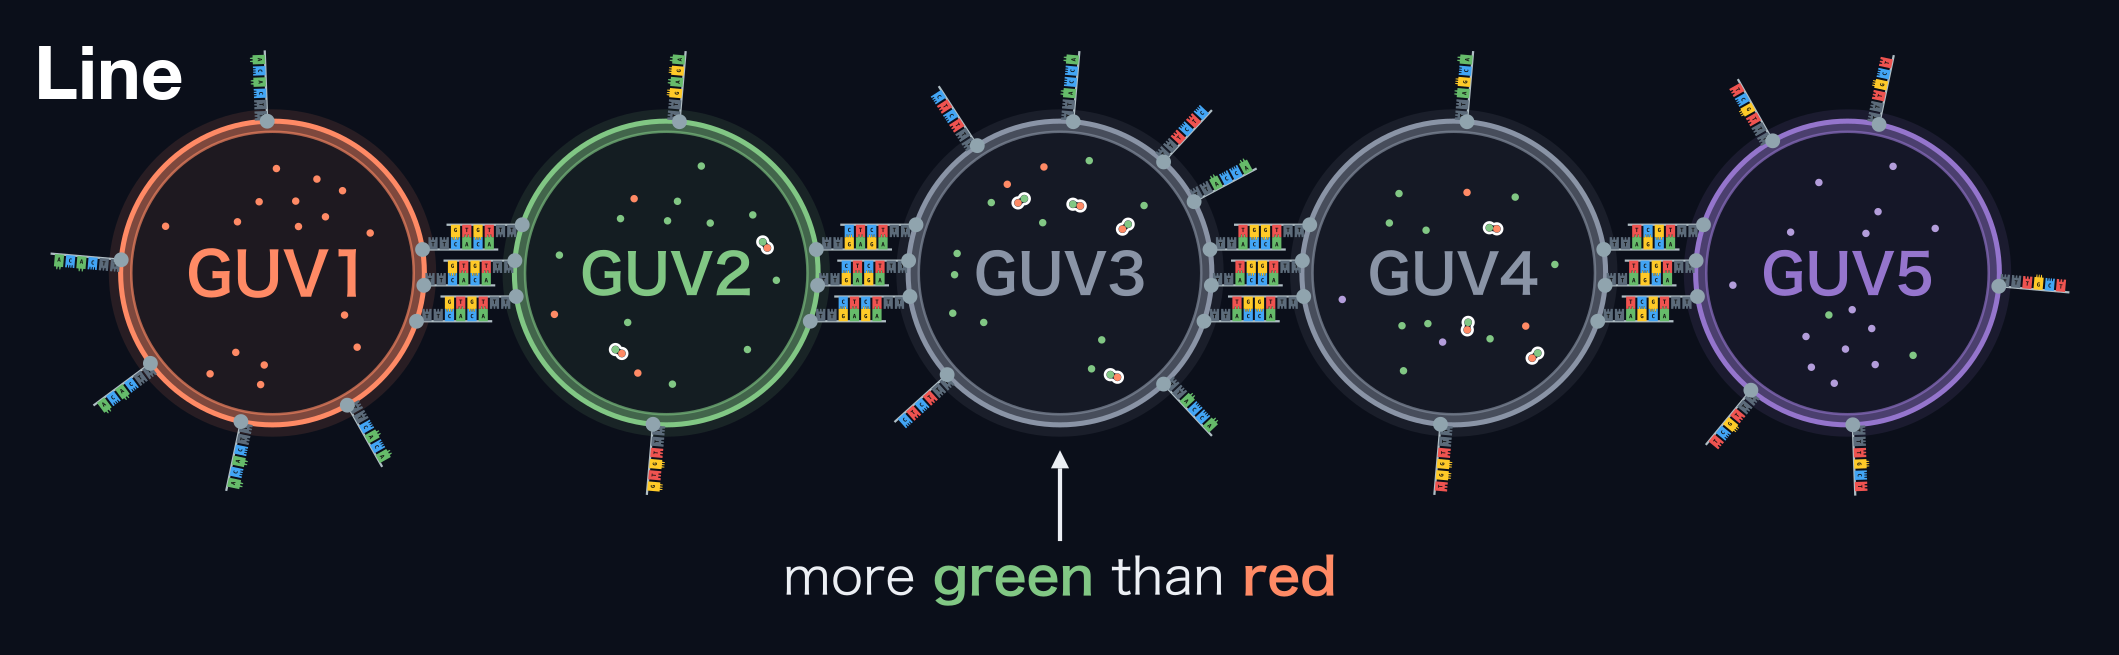
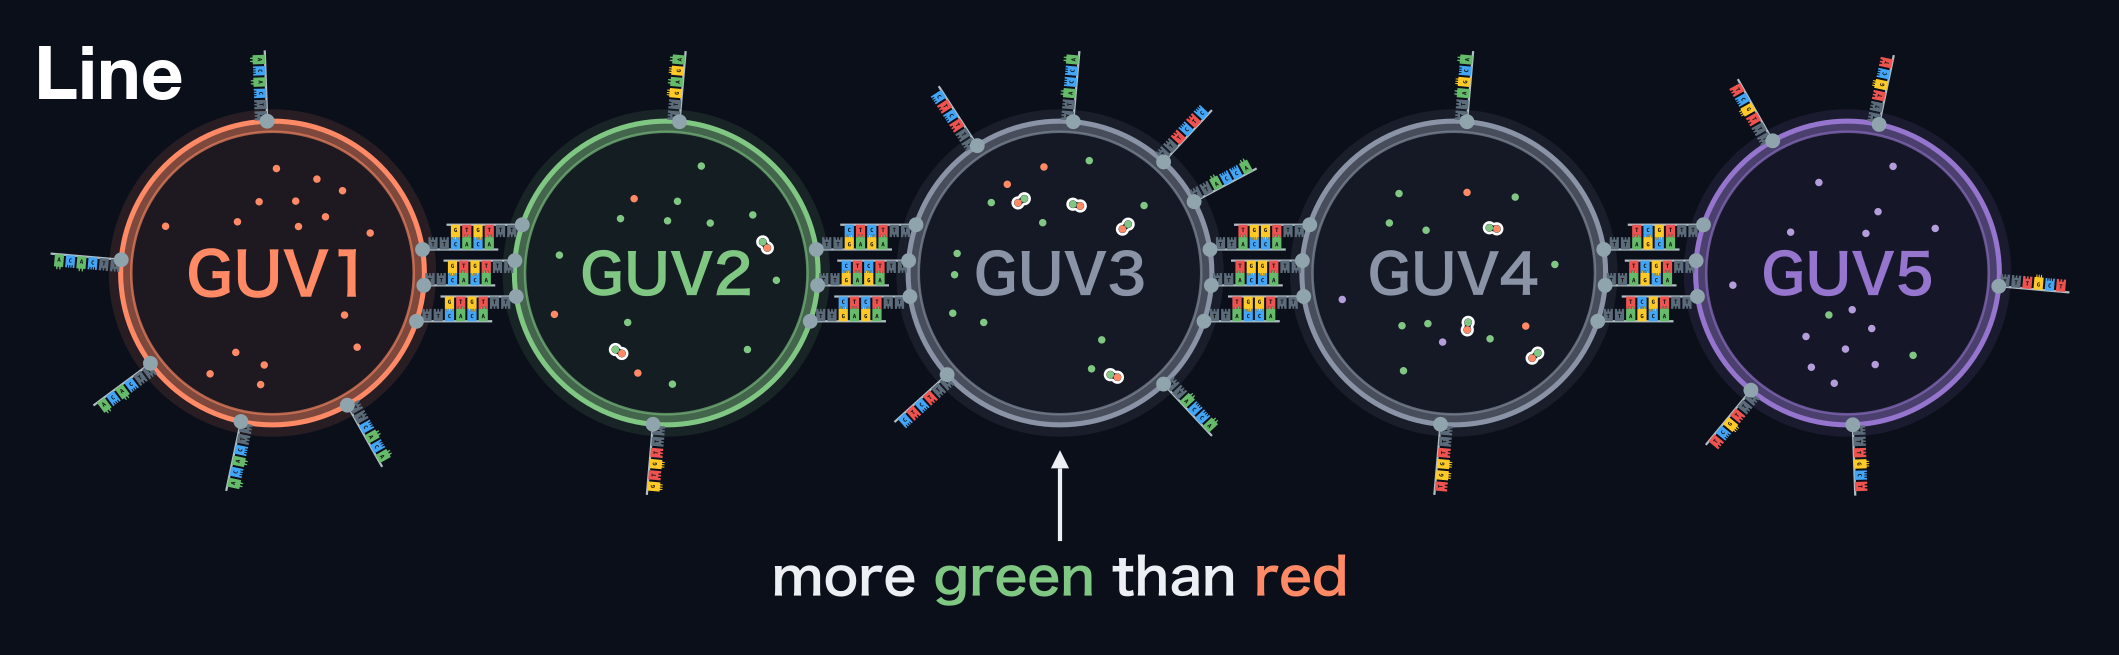
Future: 'convergent synthesis' wording; bold arrow labels in Fig. 2

Changed region(s): [[0.3426, 0.855, 0.6541, 0.916]]

diff --git a/future.html b/future.html
@@ -81,7 +81,7 @@
                     <div class="study-row">
                         <div class="study-text">
                             <p>
-                                Branching increases the number of partners that one GUV can have. In a line, a GUV has at most two partners, so it can receive from one side and pass on to the other side. At a branch point, a GUV can have three or more partners. This makes it easier to carry out convergent reactions, in which two parts of a molecule are made separately, joined, and then processed further. Here, the red contents of GUV1 and the green contents of GUV2 react first, and the product then mixes with the purple contents of GUV5. In the line (Fig. 2, top), the red contents of GUV1 have to pass through GUV2 to reach GUV3, so GUV3 is expected to receive more green contents than red contents, and the red contents already mix with the green ones in GUV2. In the branched network (Fig. 2, bottom), GUV1 and GUV2 are both connected directly to GUV3, so the red and green contents are expected to reach GUV3 in similar amounts and mix there evenly. The product is then passed on to GUV4, where it mixes with the purple contents. A branch point can also pass one product to two GUVs for two different reactions.
+                                Branching increases the number of partners that one GUV can have. In a line, a GUV has at most two partners, so it can receive from one side and pass on to the other side. At a branch point, a GUV can have three or more partners. This makes it easier to carry out convergent synthesis, in which two parts of a molecule are made separately and then joined. Here, the red contents of GUV1 and the green contents of GUV2 react first, and the product then mixes with the purple contents of GUV5. In the line (Fig. 2, top), the red contents of GUV1 have to pass through GUV2 to reach GUV3, so GUV3 is expected to receive more green contents than red contents, and the red contents already mix with the green ones in GUV2. In the branched network (Fig. 2, bottom), GUV1 and GUV2 are both connected directly to GUV3, so the red and green contents are expected to reach GUV3 in similar amounts and mix there evenly. The product is then passed on to GUV4, where it mixes with the purple contents. A branch point can also pass one product to two GUVs for two different reactions.
                             </p>
                         </div>
                         <figure>
